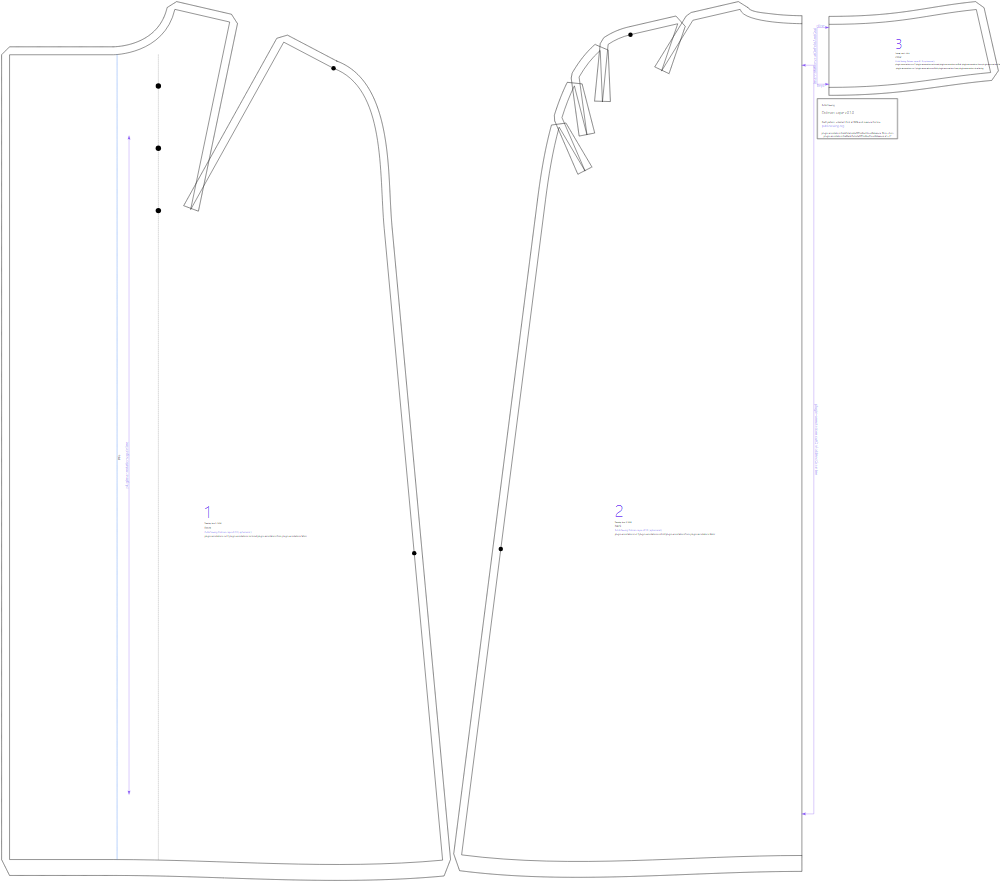
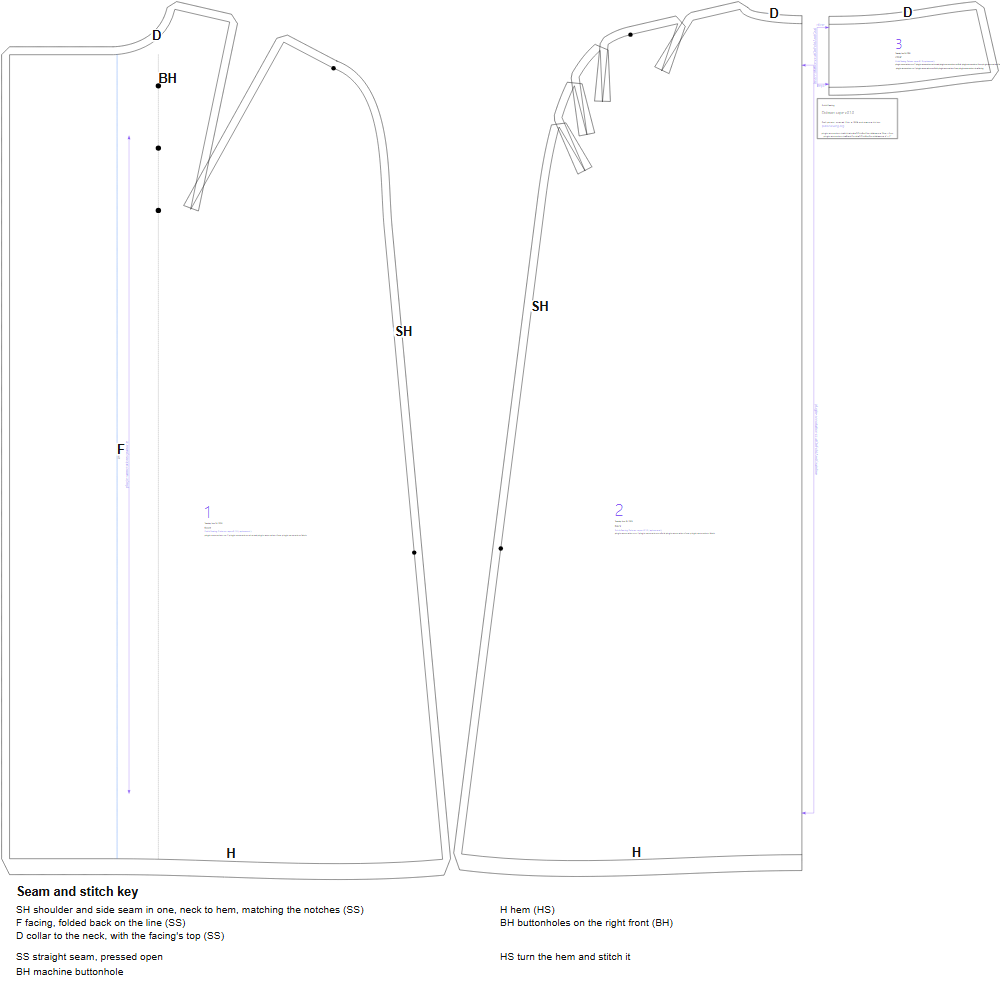
Map the capes; number their steps
Cape, cape overcoat (on the cape's map) and dolman cape. lib/cape.mjs keeps each cape piece's edges as hidden paths for anchors; the one-piece cape is now piece 4, as map numbers must be unique.

diff --git a/designs/cape/BRIEF.md b/designs/cape/BRIEF.md
@@ -50,11 +50,12 @@ Her dolman cape is fitted on a French lining foundation we don't have, and isn't
 Two pieces: front (cut 2), back (fold), collar. One piece: the cape (fold), collar.
 
 ## Construction
-1. Two pieces: sew each side from the neck over the shoulder to the hem, easing at the tip. One piece: sew the shoulder darts.
+
+1. Two pieces: sew each SH side from the neck over the shoulder to the hem, easing at the tip. One piece: sew the DT shoulder darts.
 2. Let it hang for a day, as most of the hem is on the bias.
-3. Fold the facing back along the marked line. Collar to the neck, with the facing's top.
-4. Level the hem on the wearer if it has dropped, and hem it, easing the fullness in.
-5. Buttonholes and buttons.
+3. Fold the F facing back along the marked line. Sew the collar to the neck at D, with the facing's top.
+4. Level the H hem on the wearer if it has dropped, and hem it, easing the fullness in.
+5. Work the BH buttonholes and sew on the buttons.
 
 ## Checks
 `test/cape.test.mjs`: every size, two pieces and one, long, short and unflared, and fully flared. The side seams, the shoulders, the dart's

diff --git a/designs/dolman-cape/BRIEF.md b/designs/dolman-cape/BRIEF.md
@@ -43,10 +43,11 @@ are Pivnick's.
 Front (cut 2), back (fold), collar.
 
 ## Construction
-1. Bust darts; the back's shoulder and curve darts.
-2. Shoulder and side seams in one, from the neck to the hem, matching the notches.
-3. Fold the facing back. Collar to the neck, with the facing's top.
-4. Hem, buttonholes, buttons.
+
+1. Sew the bust darts, and the back's shoulder and curve darts.
+2. Sew the SH shoulder and side seams in one, from the neck to the hem, matching the notches.
+3. Fold the F facing back. Sew the collar to the neck at D, with the facing's top.
+4. Finish the H hem, work the BH buttonholes and sew on the buttons.
 
 ## Checks
 `test/dolman-cape.test.mjs`: every size, the default, long, short with no hip extension, and wide. Side seams above and below the

diff --git a/designs/cape-overcoat/BRIEF.md b/designs/cape-overcoat/BRIEF.md
@@ -64,3 +64,10 @@ an arm opening, but the text does not explain it, so it is not copied.
 Cut two foreparts, one back on the fold, and the collar on the fold.
 Sew the shoulder and side seams, finish the front stand and facing, attach
 the collar, level and hem the swept edge, then work buttonholes and buttons.
+
+## Construction
+
+1. Sew the SH shoulder and side seams from the neck to the hem, easing at the tip; a one-piece cut sews its DT shoulder darts instead.
+2. Finish the front stand and fold the F facing back on its line. Sew the collar to the neck at D, with the facing's top.
+3. Let it hang, then level the swept H hem on the wearer and hem it, easing in the fullness.
+4. Work the BH buttonholes and sew on the buttons.
